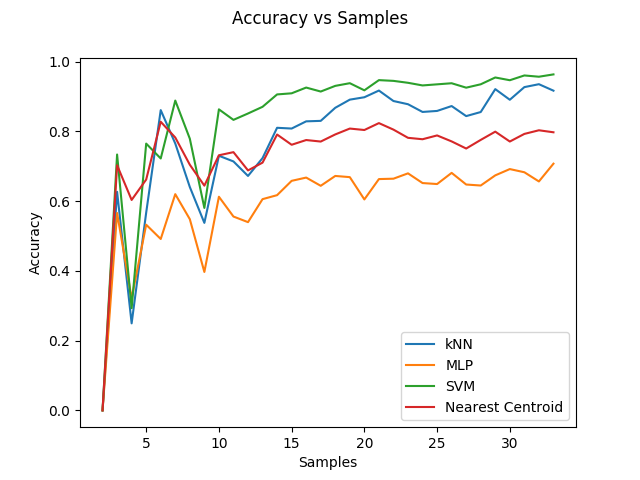
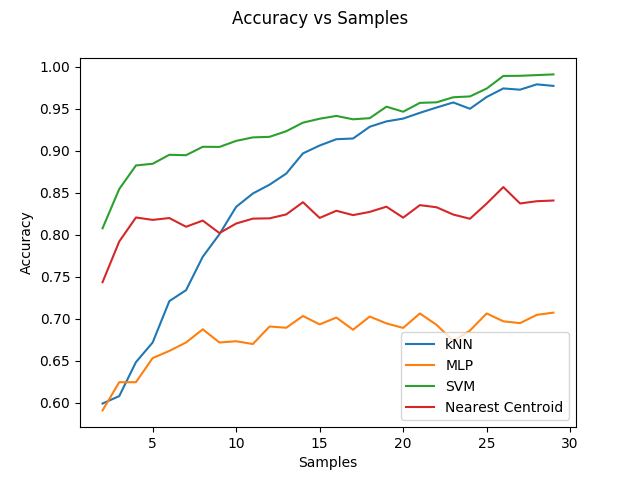
Updated

diff --git a/experiments/acc_vs_rd_vs_samples.py b/experiments/acc_vs_rd_vs_samples.py
@@ -18,9 +18,12 @@ from sklearn.neural_network import MLPClassifier
 from sklearn.neighbors import KNeighborsClassifier
 from sklearn.svm import SVC
 from sklearn.neighbors.nearest_centroid import NearestCentroid
+import random
+from mpl_toolkits.mplot3d import Axes3D
+
 # Load tensors for 10%, 50% and 95% recovered data
 
-class AccVsReducedDimension:
+class AccVsReducedDimensionVsSamples:
     def __init__(self):
         recovered10 = sio.loadmat('Data/recovered10.mat')
         self.recovered10 = recovered10['recovered10']
@@ -63,8 +66,6 @@ class AccVsReducedDimension:
         return np.reshape(decompose,(recovered.shape[0],l))
     
     def run_exp(self):
-        # Boolean, as an switch to change the code between acc_vs_samples and acc_vs_reduced_dimension
-        acc_vs_samples = False
         # Empty list to store the accuracies at each step
         acc_dict=[]
         # fixed to 122. l is the reduced_dimension variable
@@ -72,65 +73,62 @@ class AccVsReducedDimension:
 
         # loop over redced dimension or samples
         for l in range(2,283,10):
+            acc_samples = []
+            for samples in range (2,30):
             # Empty list declared to store accuraces, everytime the expriment is repeated
-            acc=[]
+                acc=[]
             # Repeatation loop
-            for repeat in range(1,500):
-                import random
-        
-                _recovered10 = self.recovered10[random.sample(range(len(self.recovered10)), self.num_train),:,:]
-                _recovered50 = self.recovered50[random.sample(range(len(self.recovered50)), self.num_train),:,:]
-                _recovered95 = self.recovered95[random.sample(range(len(self.recovered95)), self.num_train),:,:]
+                for repeat in range(1,500):
+                    
+                    _recovered10 = self.recovered10[random.sample(range(len(self.recovered10)), samples),:,:]
+                    _recovered50 = self.recovered50[random.sample(range(len(self.recovered50)), samples),:,:]
+                    _recovered95 = self.recovered95[random.sample(range(len(self.recovered95)), samples),:,:]
+                    
+                    # Tucker is applied on tensor of each category to obtain core and factors
+                    core10,factor10 = tucker(_recovered10, ranks = [_recovered10.shape[0],1,l])
+                    core50,factor50 = tucker(_recovered50, ranks =  [_recovered50.shape[0],1,l])
+                    core95,factor95 = tucker(_recovered95, ranks =  [_recovered95.shape[0],1,l])
+                    # Tensor of each category is decompsed based on the factors obtained earlier
+                    _decomposed10 = self.decomposed(factor10, _recovered10,l)
+                    _decomposed50 = self.decomposed(factor50, _recovered50,l)
+                    _decomposed95 = self.decomposed(factor95, _recovered95,l)
 
-                
-                # Tucker is applied on tensor of each category to obtain core and factors
-                core10,factor10 = tucker(_recovered10, ranks = [_recovered10.shape[0],1,l])
-                core50,factor50 = tucker(_recovered50, ranks =  [_recovered50.shape[0],1,l])
-                core95,factor95 = tucker(_recovered95, ranks =  [_recovered95.shape[0],1,l])
-                # Tensor of each category is decompsed based on the factors obtained earlier
-                _decomposed10 = self.decomposed(factor10, _recovered10,l)
-                _decomposed50 = self.decomposed(factor50, _recovered50,l)
-                _decomposed95 = self.decomposed(factor95, _recovered95,l)
-
-                test_decomposed10 = self.decomposed(factor10, self.recovered10_test,l)
-                test_decomposed50 = self.decomposed(factor50, self.recovered50_test,l)
-                test_decomposed95 = self.decomposed(factor95, self.recovered95_test,l)
-                
-
-                if not acc_vs_samples:
-                    print('Reduced Dimension: %i, Repeat: %i'%(l,repeat))
-                    _Y = np.ravel(np.array([[1]*self.num_train + [2]*self.num_train + [3]*self.num_train]))
+                    test_decomposed10 = self.decomposed(factor10, self.recovered10_test,l)
+                    test_decomposed50 = self.decomposed(factor50, self.recovered50_test,l)
+                    test_decomposed95 = self.decomposed(factor95, self.recovered95_test,l)
+                    
+                    print('Sample: %i, Repeat: %i'%(samples,repeat))
+                    _Y = np.ravel(np.array([[1]*samples + [2]*samples + [3]*samples]))
                     X = np.concatenate((_decomposed10, _decomposed50, _decomposed95))
 
-                # The data into training-testing 
-                xtrain = X
-                xtest = np.concatenate((test_decomposed10,test_decomposed50,test_decomposed95))
-                ytrain = _Y
-                ytest = np.ravel(np.array([[1]*self.num_test + [2]*self.num_test + [3]*self.num_test]))
-                # Classifiers are imported fsrom Sklearn, trained and tested. Accuracies are written
+                    # The data into training-testing 
+                    xtrain = X
+                    xtest = np.concatenate((test_decomposed10,test_decomposed50,test_decomposed95))
+                    ytrain = _Y
+                    ytest = np.ravel(np.array([[1]*self.num_test + [2]*self.num_test + [3]*self.num_test]))
+                    # Classifiers are imported fsrom Sklearn, trained and tested. Accuracies are written
 
 
-                #clf = MLPClassifier(solver='lbfgs', alpha=1e-5,hidden_layer_sizes=(5, 2), random_state=1)
-                clf = KNeighborsClassifier(n_neighbors=3)
-                clf.fit(xtrain,ytrain)
-                ypreds_knn = clf.predict(xtest)
+                    #clf = MLPClassifier(solver='lbfgs', alpha=1e-5,hidden_layer_sizes=(5, 2), random_state=1)
+                    clf = KNeighborsClassifier(n_neighbors=3)
+                    clf.fit(xtrain,ytrain)
+                    ypreds_knn = clf.predict(xtest)
 
-                clf = MLPClassifier(solver='lbfgs', alpha=1e-5,hidden_layer_sizes=(5, 2), random_state=1)
-                clf.fit(xtrain,ytrain)
-                ypreds_mlp = clf.predict(xtest)
+                    clf = MLPClassifier(solver='lbfgs', alpha=1e-5,hidden_layer_sizes=(5, 2), random_state=1)
+                    clf.fit(xtrain,ytrain)
+                    ypreds_mlp = clf.predict(xtest)
 
-                clf = SVC(gamma='auto')
-                clf.fit(xtrain,ytrain)
-                ypreds_svm = clf.predict(xtest)
+                    clf = SVC(gamma='auto')
+                    clf.fit(xtrain,ytrain)
+                    ypreds_svm = clf.predict(xtest)
 
-                clf = NearestCentroid()
-                clf.fit(xtrain,ytrain)
-                ypreds_nc = clf.predict(xtest)
+                    clf = NearestCentroid()
+                    clf.fit(xtrain,ytrain)
+                    ypreds_nc = clf.predict(xtest)
 
-
-                acc.append(np.array([accuracy_score(ytest, ypreds_knn) , accuracy_score(ytest, ypreds_mlp), accuracy_score(ytest, ypreds_svm), accuracy_score(ytest, ypreds_nc)]))
-            acc_dict.append(np.mean(acc, axis=0))
-            
+                    acc.append(np.array([accuracy_score(ytest, ypreds_knn) , accuracy_score(ytest, ypreds_mlp), accuracy_score(ytest, ypreds_svm), accuracy_score(ytest, ypreds_nc)]))
+                acc_samples.append(np.mean(acc, axis=0))
+            acc_dict.append(acc_samples)
         # To save accuracies as an checkpoint for later use
         with open('acc_dict.txt', 'w') as f:
             for item in np.array(acc_dict):

diff --git a/experiments/acc_vs_samples.py b/experiments/acc_vs_samples.py
@@ -18,6 +18,7 @@ from sklearn.neural_network import MLPClassifier
 from sklearn.neighbors import KNeighborsClassifier
 from sklearn.svm import SVC
 from sklearn.neighbors.nearest_centroid import NearestCentroid
+import random
 # Load tensors for 10%, 50% and 95% recovered data
 
 class AccVsSamples:
@@ -30,6 +31,18 @@ class AccVsSamples:
 
         recovered95 = sio.loadmat('Data/recovered95.mat')
         self.recovered95 = recovered95['recovered95_1']
+
+        self.num_test = 4
+        self.recovered10_test = self.recovered10[-self.num_test:,:,:]
+        self.recovered10 = self.recovered10[:len(self.recovered10)-4,:,:]
+
+        self.recovered50_test = self.recovered50[-self.num_test:,:,:]
+        self.recovered50 = self.recovered50[:len(self.recovered50)-4,:,:]
+
+        self.recovered95_test = self.recovered95[-self.num_test:,:,:]
+        self.recovered95 = self.recovered95[:len(self.recovered95)-4:,:]
+
+
         self.acc_dict = []
 
     #function to decompose the matrix based on factors obtained
@@ -54,45 +67,48 @@ class AccVsSamples:
         acc_vs_samples = True
         # Empty list to store the accuracies at each step
         acc_dict=[]
-        # fixed to 122, here for MLP. l is the reduced_dimension variable
-        l=122
+        # fixed to 122. l is the reduced_dimension variable
+        l=18
 
         # loop over redced dimension or samples
         #for l in range(2,283,10):
-        for samples in range (2,34):
+        for samples in range (2,30):
             # Empty list declared to store accuraces, everytime the expriment is repeated
             acc=[]
             # Repeatation loop
             for repeat in range(1,500):
+                _recovered10 = self.recovered10[random.sample(range(len(self.recovered10)), samples),:,:]
+                _recovered50 = self.recovered50[random.sample(range(len(self.recovered50)), samples),:,:]
+                _recovered95 = self.recovered95[random.sample(range(len(self.recovered95)), samples),:,:]
+                
                 # Tucker is applied on tensor of each category to obtain core and factors
-                core10,factor10 = tucker(self.recovered10, ranks = [self.recovered10.shape[0],1,l])
-                core50,factor50 = tucker(self.recovered50, ranks =  [self.recovered50.shape[0],1,l])
-                core95,factor95 = tucker(self.recovered95, ranks =  [self.recovered95.shape[0],1,l])
+                core10,factor10 = tucker(_recovered10, ranks = [_recovered10.shape[0],1,l])
+                core50,factor50 = tucker(_recovered50, ranks =  [_recovered50.shape[0],1,l])
+                core95,factor95 = tucker(_recovered95, ranks =  [_recovered95.shape[0],1,l])
                 # Tensor of each category is decompsed based on the factors obtained earlier
-                _decomposed10 = self.decomposed(factor10, self.recovered10,l)
-                _decomposed50 = self.decomposed(factor50, self.recovered50,l)
-                _decomposed95 = self.decomposed(factor95, self.recovered95,l)
+                _decomposed10 = self.decomposed(factor10, _recovered10,l)
+                _decomposed50 = self.decomposed(factor50, _recovered50,l)
+                _decomposed95 = self.decomposed(factor95, _recovered95,l)
+
+                test_decomposed10 = self.decomposed(factor10, self.recovered10_test,l)
+                test_decomposed50 = self.decomposed(factor50, self.recovered50_test,l)
+                test_decomposed95 = self.decomposed(factor95, self.recovered95_test,l)
+                
                 
                 # Switch to execute acc_vs_samples branch here
                 if acc_vs_samples:
-                    t=np.random.randint((self.recovered10.shape[0]+self.recovered50.shape[0]+self.recovered95.shape[0]),size= samples)
+                    # t=np.random.randint((self.recovered10.shape[0]+self.recovered50.shape[0]+self.recovered95.shape[0]),size= samples)
                     print('Sample: %i, Repeat: %i'%(samples,repeat))
-                    decomposed10 = _decomposed10[np.random.randint((len(_decomposed10)),size= samples)]
-                    decomposed50 = _decomposed50[np.random.randint((len(_decomposed50)),size= samples)]
-                    decomposed95 = _decomposed95[np.random.randint((len(_decomposed95)),size= samples)]
                     _Y = np.ravel(np.array([[1]*samples + [2]*samples + [3]*samples]))
-                    X = np.concatenate((decomposed10, decomposed50, decomposed95))
-
-                # Switch to execute acc_vs_reduced_samples branch
-                else:
-                    print('Reduced Dimension: %i, Repeat: %i'%(l,repeat))
-                    _Y = np.ravel(np.array([[1]*self.recovered10.shape[0] + [2]*self.recovered50.shape[0] + [3]*self.recovered95.shape[0]]))
                     X = np.concatenate((_decomposed10, _decomposed50, _decomposed95))
 
-                # The data is split into training-testing 
                 
-                xtrain, xtest, ytrain, ytest = train_test_split(X, _Y, test_size=0.33, random_state=42)
-                
+
+                # The data into training-testing 
+                xtrain = X
+                xtest = np.concatenate((test_decomposed10,test_decomposed50,test_decomposed95))
+                ytrain = _Y
+                ytest = np.ravel(np.array([[1]*self.num_test + [2]*self.num_test + [3]*self.num_test]))
                 # Classifiers are imported fsrom Sklearn, trained and tested. Accuracies are written
 
 
@@ -128,30 +144,16 @@ class AccVsSamples:
         if acc_vs_samples:
             fig = plt.figure()
             for _ in range(4):
-                plt.plot([i for i in range(2,34)], acc_dict[:,_], label = _classifiers[_])
+                plt.plot([i for i in range(2,30)], acc_dict[:,_], label = _classifiers[_])
             fig.suptitle("Accuracy vs Samples")
             plt.xlabel("Samples")
             plt.ylabel("Accuracy")
             plt.legend( loc='lower right')
             plt.savefig('Figures/acc_vs_samples.png')
             plt.show()
-        else:
-            fig = plt.figure()
-            for _ in range(4):
-                plt.plot([i for i in range(2,283,10)], acc_dict[:,_], label = _classifiers[_])
-            fig.suptitle("Accuracy vs Reduced Dimension")
-            plt.xlabel("Reduced Dimension")
-            plt.ylabel("Accuracy")
-            plt.legend( loc='lower right')
-            plt.savefig('Figures/acc_vs_reducedDimension.png')
-            plt.show()
-            print('Index of max: ', np.argmax(acc_dict))
+
 
             
             
-            
-        for x in range(3):
-            for y in range(recovered95.shape[0]):
-                plt.subplot(3,1,x+1)
-                plt.plot(recovered95[y,x,:])
+
             

diff --git a/main.py b/main.py
@@ -1,11 +1,11 @@
-# -*- coding: utf-8 -*-
+
 """
 Created on Mon Feb 18 13:04:45 2019
 
 @author: kbich
 """
 
-import os, argparse
+import argparse
 from experiments.acc_vs_rd import AccVsReducedDimension
 from experiments.acc_vs_samples import AccVsSamples
 
